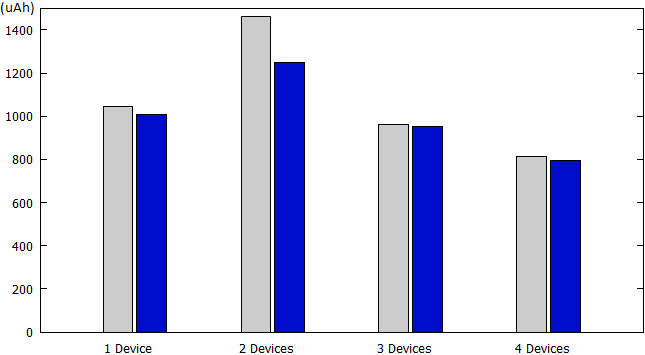
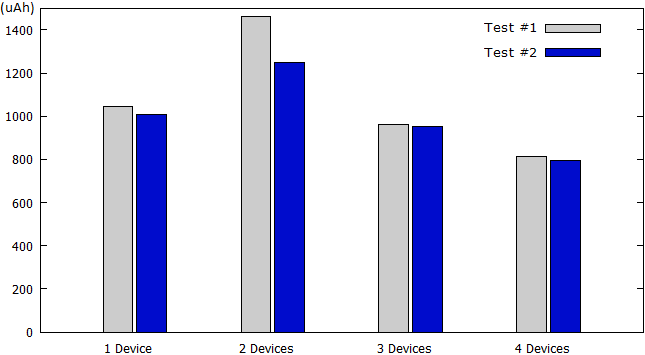
added experiment parts

Changed region(s): [[0.7442, 0.1239, 0.9302, 0.1859], [0.7442, 0.062, 0.9302, 0.093]]

diff --git a/paper/job2p.tex b/paper/job2p.tex
@@ -631,7 +631,7 @@ The Figure \ref{fig:cluster_performance} summarized performance in terms of time
 \label{fig:cluster_performance}
 \end{figure}
 
-To perform energy consumption on each cluster, we used Moosoon Power Monitor and measure the velocity of energy drained on a single mobile device when utilizing power from the other peers.  
+To perform energy consumption on each cluster, we used Moosoon Power Monitor and measure the velocity of energy drained on a single mobile device when utilizing power from the other peers. Figure \ref{fig:cluster_performance} shows the energy measurement results from the two consecutive tests, although the two tests gave the big gap when executing 2 device cluster, in general the variability of energy consumption within multiple clusters matches with time consumption one. By running the two consecutive tests with the same input for 20 times, we realized that the results didn't change, and by utilizing 3 or more devices, we can significantly reduce the amount of energy required for the task, sometimes up to 25\%. However when we increased the number of devices in cluster, we didn't get the performance raised up at corresponding value linearly, this can be explained by Amdahl's law \cite{amdahl}. Throughout our experiments, the number of devices at 3 to 5 will give the maximum benefit in terms of energy saving and device usage productivity.
 
 \begin{figure}[H]
 \centerline {
@@ -649,10 +649,27 @@ Theoretically, remote accessibility won't help reducing the amount of bytes down
 
 To apply APIs for this application, from the caller we dispatch job requests, which contains information of job with resources are URL, number of parts and index, to the peers having \texttt{IRS[network]} at \texttt{high} or \texttt{low} (See ). At each peer, when request is received, it executes job to load URL to achieve page in HTML code. Then it will parse the HTML to detect resource links including multimedia resources (images, audio, videos), CSS, and JS. Depend on the number of parts and index, it narrows down the amount of resources and attempt downloading and put into a ZIP file before throw back to the caller.
 
-According to our system architecture, the caller needs to prepare a placeholder to hold every incoming results. For this test case, the placeholder is designated as a sub folder in the \texttt{Download} folder. When result comes as a ZIP file, contents will be extracted and filled into the placeholder folder. The final HTML file will contain all the modified resource links which locate at the same folder.
+According to our system architecture, the caller needs to prepare a placeholder to hold every incoming results. For this test case, the placeholder is designated as a sub folder in the \texttt{Download} folder. When result comes as a ZIP file, contents will be extracted and filled into the placeholder folder. The final HTML file will contain all the modified resource links which locate at the same folder. Finally, the local HTML file can be open by Android Web browser using a local web server, for instance TinyHTTPd \cite{tinyhttpd}.
 
 \paragraph{Performance}
-Diagrams go here
+According to our experiments, executing Internet Remote access brings the higher benefit in compare with Image processing.
+
+\begin{figure}[H]
+\centerline {
+\includegraphics[width=0.55\textwidth, natwidth=443, natheight=272]{data/c_all_int}
+}
+\caption{Energy consumption of clusters}
+\label{fig:cluster_performance}
+\end{figure}
+
+\begin{figure}[H]
+\centerline {
+\includegraphics[width=0.55\textwidth, natwidth=443, natheight=272]{data/c_all_int}
+}
+\caption{Energy consumption of clusters}
+\label{fig:cluster_performance}
+\end{figure}
+
 
 \subsubsection{GPS Sharing}
 
@@ -729,6 +746,10 @@ Fred Chung, \emph{Custom Class Loading in Dalvik}, http://android-developers.blo
 \bibitem{moosoon}
 \emph{Moosoon Power Monitor}, https://www.msoon.com/LabEquipment/Pow-erMonitor
 
+\bibitem{tinyhttpd}
+\emph{TinyHTTPd}, http://sourceforge.net/projects/tinyhttpd/
+
+
 \bibitem{wifi_energy}
 Kalic, G., Bojic, I., Kusek, M., \emph{Energy consumption in android phones when using wireless communication technologies}, p754-759, MIPRO May 2012
 
@@ -741,7 +762,11 @@ Cong Shi, Kaustubh Joshi, Rajesh K. Panta, Mostafa H. Ammar, Ellen W. Zegura, \e
 \bibitem{rio}
 Ardalan Amiri Sani, Kevin Boos, Min Hong Yun, and Lin Zhong, \emph{Rio: a system solution for sharing i/o between mobile systems}, p259-272, MobiSys 2014
 
+\bibitem{gameon}
+Nairan Zhang, Youngki Lee, Meera Radhakrishnan, Rajesh Krishna Balan, \emph{GameOn: p2p Gaming On Public Transport}, p105-119, MobiSys 2015
 
+\bibitem{amdahl}
+Mark D. Hill, Michael R. Marty, \emph{Amdahl's Law in the Multicore Era}, Computer Journal p33-38, 2008
 
 \end{thebibliography}
 
